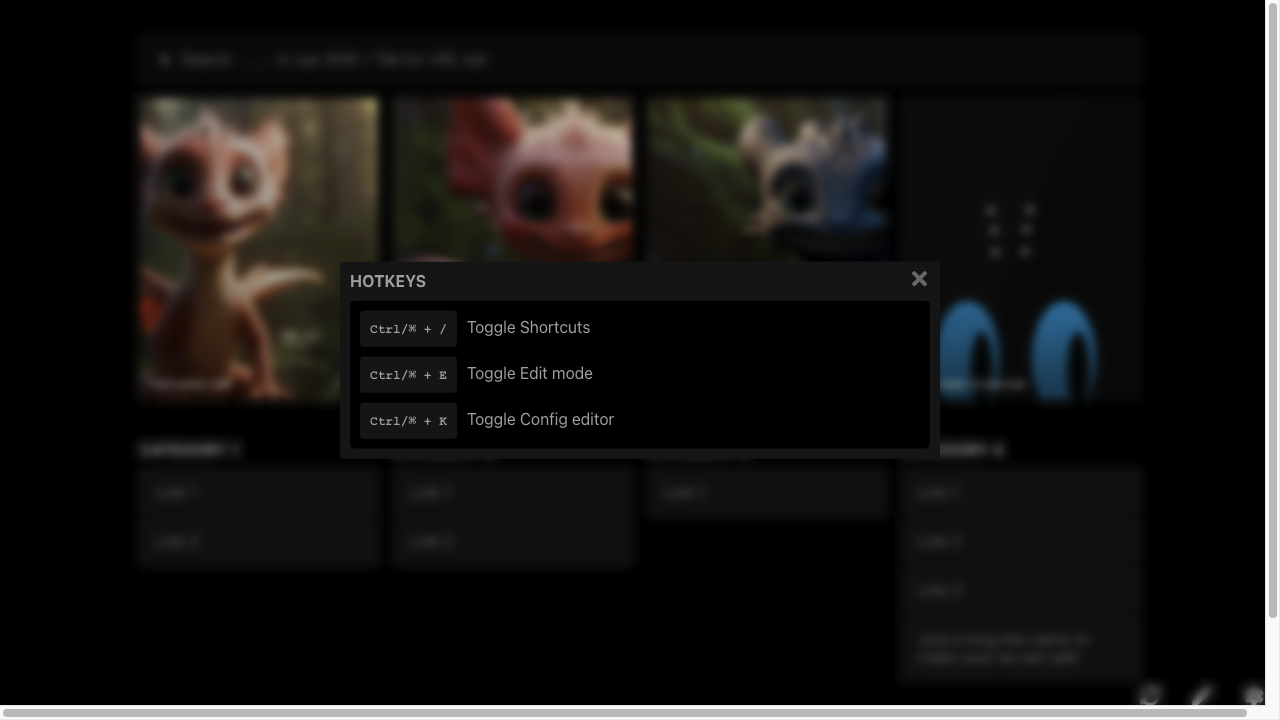
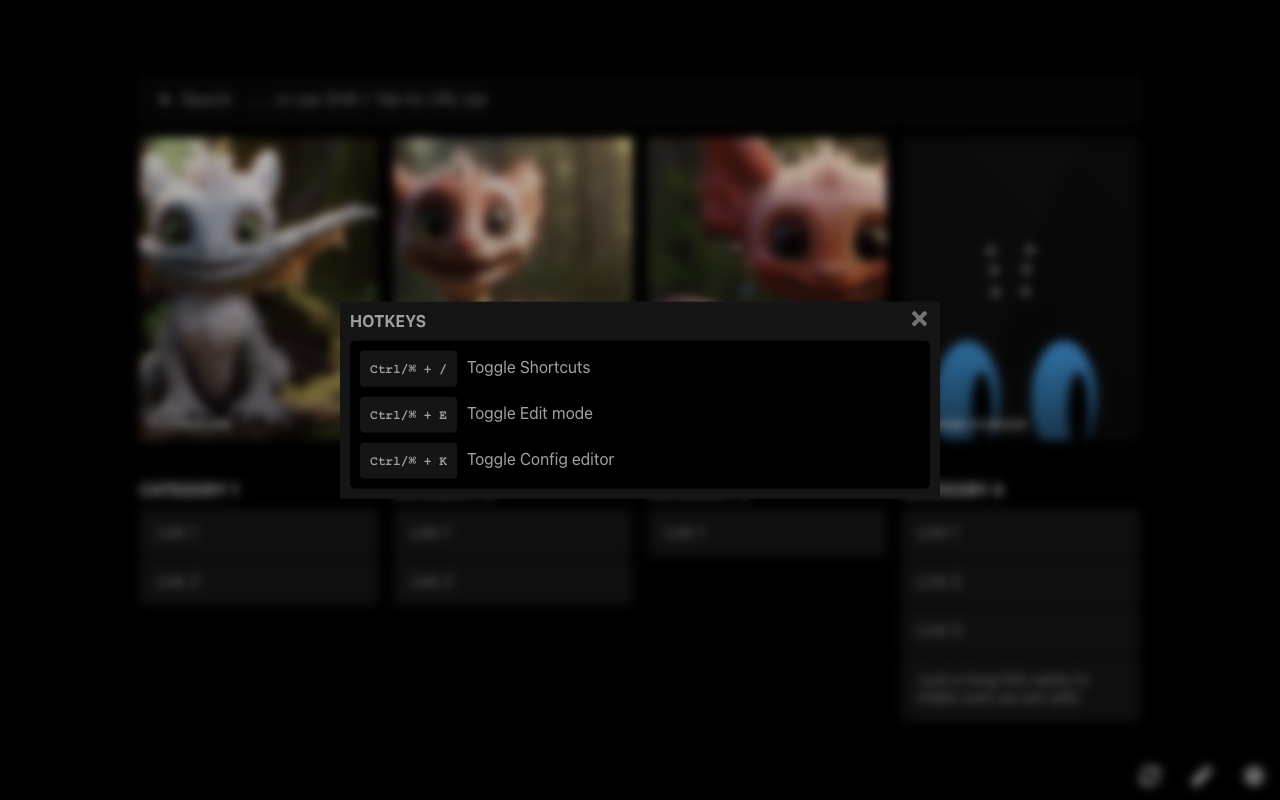
fixes screens

diff --git a/src/modules/config/utils.ts b/src/modules/config/utils.ts
@@ -74,12 +74,12 @@ let combinations = generateCombinations(colors, size)
 
 // Get random array
 let randomArray = getRandomArray(combinations.size)
-export function getRandomBg() {
+export function getRandomBg(size = 'normal') {
   // every time we call this function, we get a new combination from the random array from count and then increment count
   let combination =
     Array.from(combinations)[randomArray[count++ % randomArray.length]]
 
   // get url from combination
-  let url = `/assets/${combination}.png`
+  let url = `/assets/${combination}${size === 'medium' ? '_medium' : ''}.jpeg`
   return url
 }

diff --git a/src/components/FeaturedSection/FeaturedCard/FeaturedCard.tsx b/src/components/FeaturedSection/FeaturedCard/FeaturedCard.tsx
@@ -26,7 +26,7 @@ interface Props extends EditContainerProps {
 }
 
 const FeaturedCard: FC<Props> = ({ link, editing, ...editingProps }) => {
-  const { name, link: linkUrl, background = getRandomBg() } = link || {}
+  const { name, link: linkUrl, background = getRandomBg('medium') } = link || {}
 
   const backgroundUrl = isAbsoluteURL(background)
     ? background

diff --git a/README.md b/README.md
@@ -29,31 +29,39 @@ A static start page to get to your most important links, **FAST**. You can use t
 - Read Only mode
 - Full keyboard navigation support
 
+![Main screen](docs/assets/main-desktop.png)
+
 ## Screens
 
-Landing page
-
-| Desktop                                               | Mobile                                              |
-| ----------------------------------------------------- | --------------------------------------------------- |
-| ![Landing Page Desktop](docs/assets/main-desktop.png) | ![Landing Page Mobile](docs/assets/main-mobile.png) |
-
-Quickly find links
-
-| Desktop                                                 | Mobile                                                |
-| ------------------------------------------------------- | ----------------------------------------------------- |
-| ![Landing Page Desktop](docs/assets/search-desktop.png) | ![Landing Page Mobile](docs/assets/search-mobile.png) |
-
-Easily edit links
-
-| Desktop                                               | Mobile                                              |
-| ----------------------------------------------------- | --------------------------------------------------- |
-| ![Landing Page Desktop](docs/assets/edit-desktop.png) | ![Landing Page Mobile](docs/assets/edit-mobile.png) |
-
-Locally manage config using JSON
-
-| Desktop                                                         | Mobile                                                        |
-| --------------------------------------------------------------- | ------------------------------------------------------------- |
-| ![Landing Page Desktop](docs/assets/config-manager-desktop.png) | ![Landing Page Mobile](docs/assets/config-manager-mobile.png) |
+<div align="center">
+<table style="width:100%; border: none;">
+  <tr>
+    <td></td>
+    <td><b>Desktop</b></td>
+    <td><b>Mobile</b></td>
+  </tr>
+  <tr>
+    <td><b>Landing Page</b></td>
+    <td><img src="docs/assets/main-desktop.png" alt="Landing Page Desktop"></td>
+    <td><img src="docs/assets/main-mobile.png" alt="Landing Page Mobile"></td>
+  </tr>
+  <tr>
+    <td><b>Quickly find links</b></td>
+    <td><img src="docs/assets/search-desktop.png" alt="Landing Page Desktop"></td>
+    <td><img src="docs/assets/search-mobile.png" alt="Landing Page Mobile"></td>
+  </tr>
+  <tr>
+    <td><b>Easily edit links</b></td>
+    <td><img src="docs/assets/edit-desktop.png" alt="Landing Page Desktop"></td>
+    <td><img src="docs/assets/edit-mobile.png" alt="Landing Page Mobile"></td>
+  </tr>
+  <tr>
+    <td><b>Locally manage config using JSON</b></td>
+    <td><img src="docs/assets/config-manager-desktop.png" alt="Landing Page Desktop"></td>
+    <td><img src="docs/assets/config-manager-mobile.png" alt="Landing Page Mobile"></td>
+  </tr>
+</table>
+</div>
 
 Drag & drop config file
 
